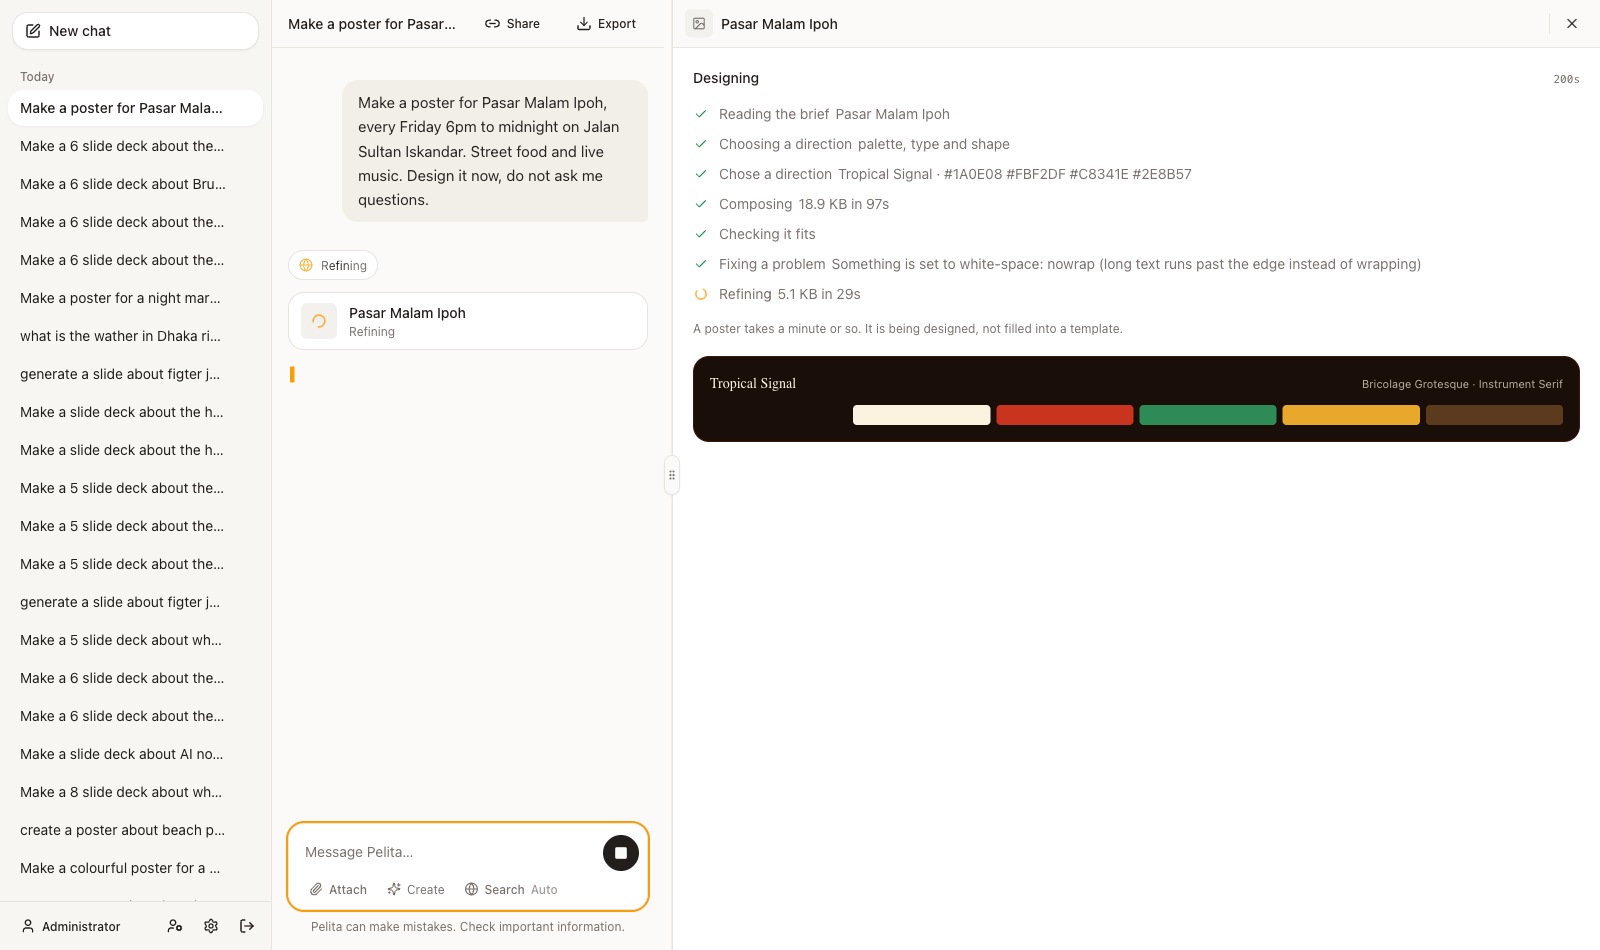
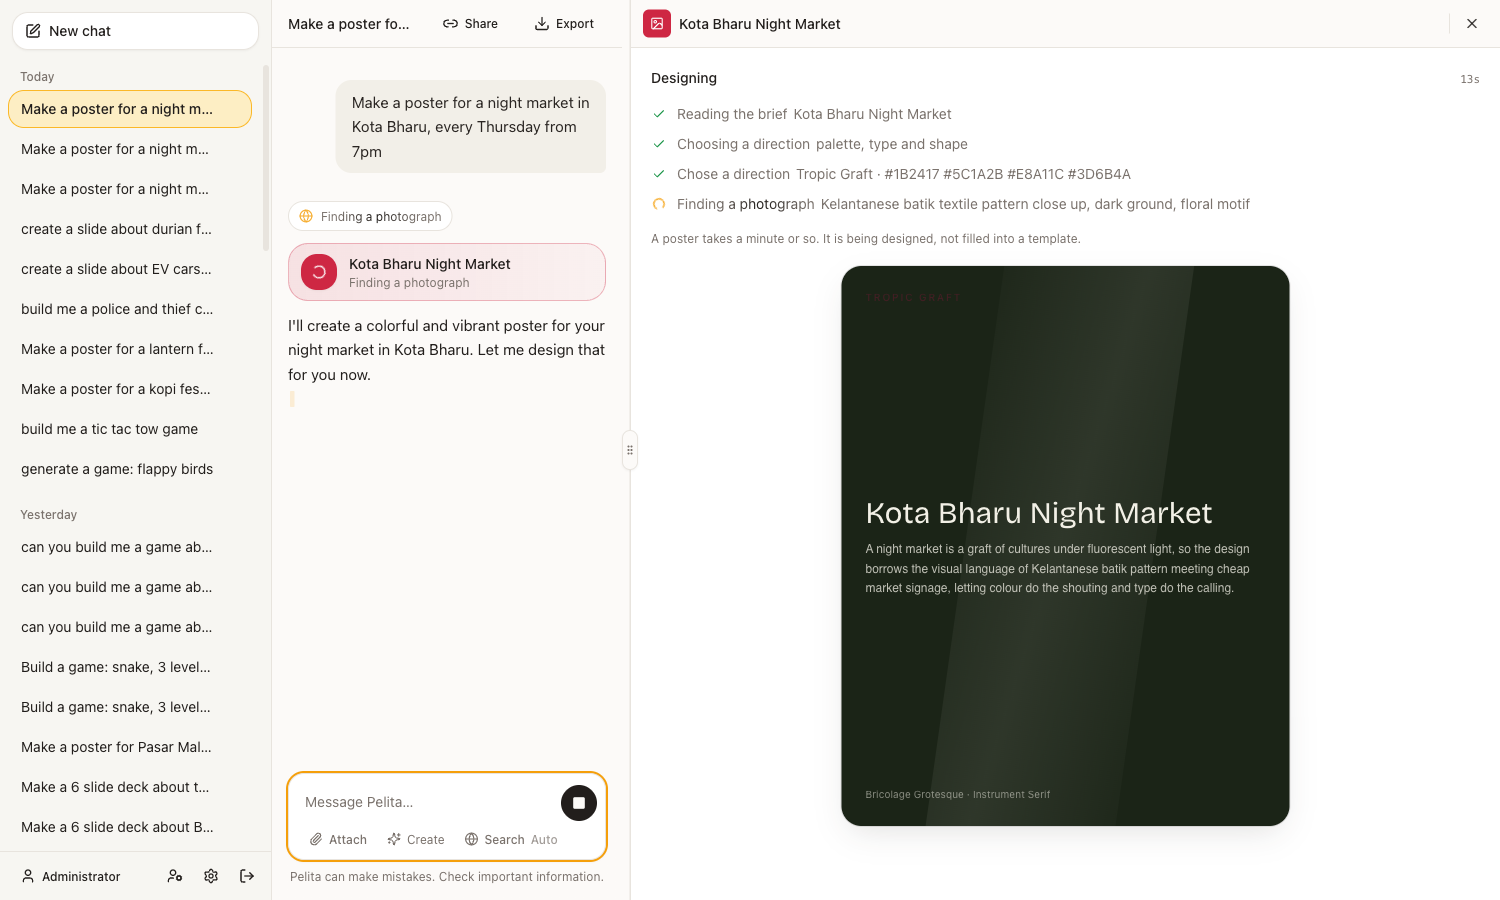
docs: the build view is not a palette strip any more
The README and the feature doc still described — and pictured — the row of
colour swatches the panel used to show while an artifact was made. The
screenshot is retaken and both now describe what is actually there: the
artifact forming in its own proportions, ground and face, with the sentence
justifying it.

Also documented, because neither was written down anywhere: that each kind
has a colour and a mark of its own, and why those are tokens off the accent
ramp with their classes written out rather than built from the kind's name.

Corrected: a deck is five slides unless you say otherwise, and it opens and
closes like a talk. The feature table still implied the old default and said
nothing about either.

The registry claim now names both kinds that have tested it, and says the
part worth saying — that a game executes, and the privilege to do so is one
field on the kind rather than a change anywhere else.

diff --git a/docs/features/024-artifacts.md b/docs/features/024-artifacts.md
@@ -25,7 +25,7 @@ you   Design a wide banner for a badminton tournament at Dewan
 
 ![A game, played to a game over, from a one-line brief](../images/pelita-game.png)
 
-![The build in progress: steps, timings and the palette it chose](../images/pelita-building.png)
+![The build in progress: the artifact forming in its own ground and face](../images/pelita-building.png)
 
 An artifact is **one self-contained HTML document**. That is the whole format,
 and it is why this feature adds no service, no build step and no dependency. A
@@ -130,6 +130,42 @@ it belongs. All three make a new version; correcting a word with the pencil
 still does not.
 
 **Downloading** a deck gives a PDF, one slide to a page.
+
+### What the panel shows while it works
+
+Three things, in the artifact's own colours: the steps with their timings,
+the artifact forming, and — for a deck — the slides themselves as they land.
+
+The forming card is the thing before it exists. Its proportions are the ones
+it chose, its ground is the first colour of its palette, its title is set in
+the display face it named (fetched from Google Fonts the moment it is
+named), and under that is the one sentence explaining why it looks like this
+— for a game, the loop: what the player will actually be doing. Light moves
+across it, because something is happening.
+
+Nothing there is invented. Every value is one the artifact has already
+committed to, which is the point: what is on screen while you wait is the
+first true thing about what you are going to get.
+
+It replaced a row of colour swatches, which told you a palette had been
+chosen and nothing whatever about what was being made — and was shown for
+every kind, including a game, where five colours say less than the sentence
+above them.
+
+### Each kind has a colour
+
+A poster is rose, a deck is blue, a game is violet, each with its own mark —
+a picture, a presentation, a gamepad. The card in the transcript is washed
+and bordered in its colour, the tile behind its glyph is that colour solid,
+and the panel header matches. Three artifacts in one conversation are told
+apart before they are read.
+
+The colours are tokens in `theme.css` with dark values, deliberately off the
+accent ramp: they are categories, not emphasis, and three tints of the brand
+would read as three states of one thing. The classes are written out rather
+than built from the kind's name, because Tailwind reads them out of the
+source — `bg-kind-${kind}` compiles to nothing. A kind with no entry gets the
+brand colour and a neutral mark.
 
 ### Games, and the one kind that executes
 
@@ -358,9 +394,12 @@ documented failure of every implementation that has tried it.
 - **Print fidelity is the browser's.** No bleed, no crop marks, no CMYK. A
   document that prints well, not a press-ready file.
 - **A poster's preview is not progressive.** The first look at it is the
-  finished one. While it builds, the panel shows the steps, their timings and
-  the palette the design settled on — never the markup being written, which
-  is not a preview of anything. A deck does show its slides as they land.
+  finished one. While it builds, the panel shows the steps and the artifact
+  forming: its real proportions, its real ground, its title set in the face
+  it has just chosen and the sentence justifying it. Never the markup being
+  written, which is not a preview of anything, and never a row of colour
+  swatches, which says a palette was chosen and nothing about what is being
+  made. A deck replaces it with real slides as they land.
 - **The fit measurement lands a few seconds after the poster does.** It waits
   for fonts, so a poster that does not fit is shown before it is flagged.
 - **The design prompt is English-only**, in line with the other pattern layers.

diff --git a/README.md b/README.md
@@ -30,7 +30,7 @@ design named its own grounds and picked its own faces for each subject:
 While it works, the panel shows what it is doing and the look it has settled
 on — never the markup being written.
 
-![The build in progress: steps, timings and the palette it chose](docs/images/pelita-building.png)
+![The build in progress: the artifact forming in its own ground and face](docs/images/pelita-building.png)
 
 ## Quick start
 
@@ -83,8 +83,9 @@ default.
 | **User management** | Admins create, disable and promote accounts, and cap what each one may spend per 24 hours. Unlimited by default |
 | **Share links** | A public, read-only link to a conversation. A frozen copy, so later messages stay private; revocable, and never indexed |
 | **Posters** | Ask for one and a poster is designed, not filled into a template — its own palette, type and layout, with photographs found on the web and embedded so the file stands alone. Opens in a panel beside the chat: share, open, download as PNG |
-| **Slide decks** | A deck planned as a talk, then written one slide at a time so the first appears while the last is still being made. Three grounds it moves between, 16:9 enforced, photographs where they earn their place. Download as PDF |
+| **Slide decks** | A deck planned as a talk, then written one slide at a time so the first appears while the last is still being made. Five slides unless you say otherwise; it opens and closes like a talk; it moves between grounds it named itself for the subject; 16:9 enforced. Download as PDF |
 | **Games** | A playable browser game, in one HTML file that opens anywhere. It is run in a real browser before you see it — keys pressed, console read — and what broke goes back to the model to fix. Keyboard *and* touch, pause, restart, and no network |
+| **Watching one being made** | The panel shows the artifact forming: its real proportions, its real ground, its title in the face it just chose, and why it looks like that. A deck swaps it for real slides as they land. Never the markup being written |
 | **Editing an artifact** | Ask in the chat box and only what you named changes — a colour change touches two lines of a 237 KB document, not the whole design. Fixing a word in place takes no model call and no new version |
 | **Export** | Any conversation as Markdown |
 | **Theme** | Light, dark, or follow the system |
@@ -131,8 +132,10 @@ Three ideas make this a template rather than an app:
 **Everything pluggable is a Protocol with a registry.** Providers, guards,
 search backends and artifact kinds are each one file plus one registry line.
 Nothing else imports a concrete implementation — slides shipped as
-`slides.py` plus one line in `artifacts/registry.py`, and the chat turn,
-the tool and the panel did not change to admit a second kind.
+`slides.py` plus one line in `artifacts/registry.py`, and games as `games.py`
+plus one more. The chat turn, the tool and the panel did not change to admit
+either, and a game is the first artifact that executes: the privilege is one
+field on the kind.
 
 **The prompt is built by ordered contributors.** System prompt at 100, memory at
 200, tool results at 300, attached files at 350, history at 400, the user message
